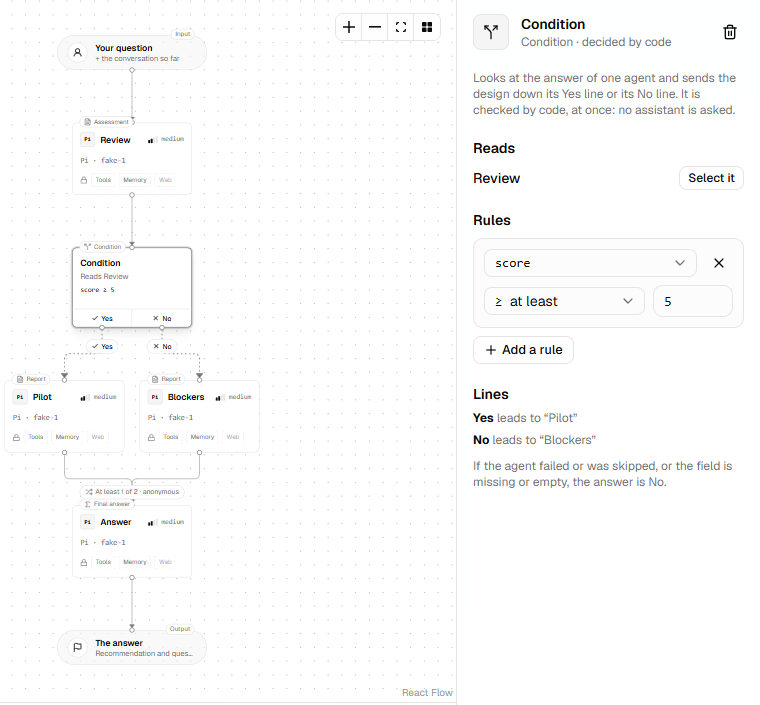
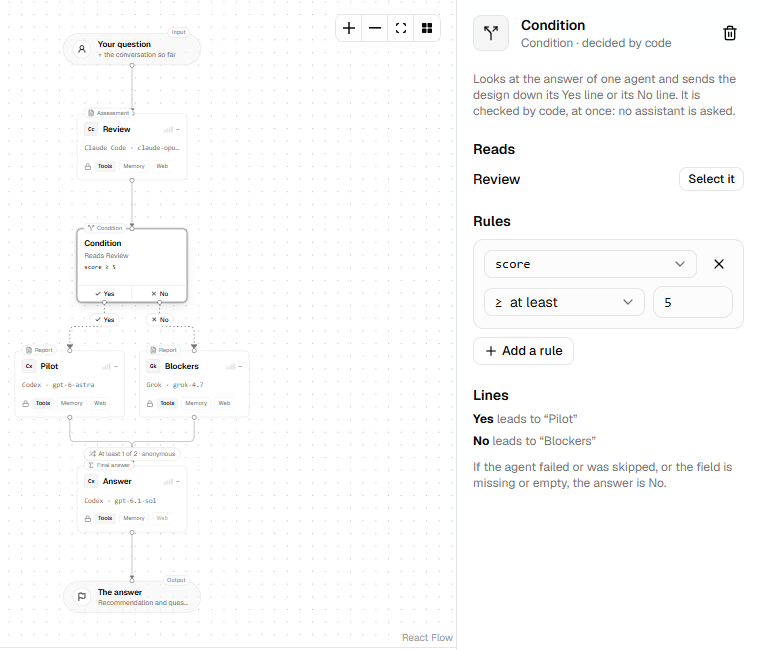
Show configured models in README screenshots

diff --git a/README.md b/README.md
@@ -27,13 +27,13 @@ divan
 
 Start with a council, a writer reviewed by critics, or a single assistant. In the visual editor, connect assistants to decide which outputs they can read. Reuse prompts and response forms from the **Library**. Each saved design is a model you can run again.
 
-![A writer sends a draft to critics, whose responses feed a rewriter](https://raw.githubusercontent.com/omid3098/dio-divan/main/docs/media/writer-critics.png)
+![A writer sends a draft to critics, whose responses feed a rewriter](https://raw.githubusercontent.com/omid3098/dio-divan/main/docs/media/writer-critics.png?v=2)
 
-*A writer, critics and rewriter in the model editor. Screenshots use example data in test mode.*
+*A workflow configured with Claude Opus 5.5, GPT-6-Astra, Grok 4.7, and GPT-6.1-Sol.*
 
 Add conditions to choose a branch from a structured result, and pick which fields travel along an edge.
 
-![A condition routes a review to one of two branches](https://raw.githubusercontent.com/omid3098/dio-divan/main/docs/media/conditional-flow.png)
+![A condition routes a review to one of two branches](https://raw.githubusercontent.com/omid3098/dio-divan/main/docs/media/conditional-flow.png?v=2)
 
 *A condition chooses which path runs.*
 
@@ -41,9 +41,9 @@ A council is one built-in flow: members answer independently without seeing one 
 
 Divan shows each round's progress and answer in a branching conversation tree. Comment on an answer, continue from it, or branch from an earlier round. A saved session keeps the flow and settings it started with, so later model edits do not silently change that conversation.
 
-![One question continues into two conversation branches, with an answer beside the tree](https://raw.githubusercontent.com/omid3098/dio-divan/main/docs/media/branching-council.png)
+![One question continues into two conversation branches, with an answer beside the tree](https://raw.githubusercontent.com/omid3098/dio-divan/main/docs/media/branching-council.png?v=2)
 
-*An answer and two branches of the same conversation.*
+*Illustrative conversation data showing two branches from one council answer.*
 
 ## Use it from your editor or client
 
